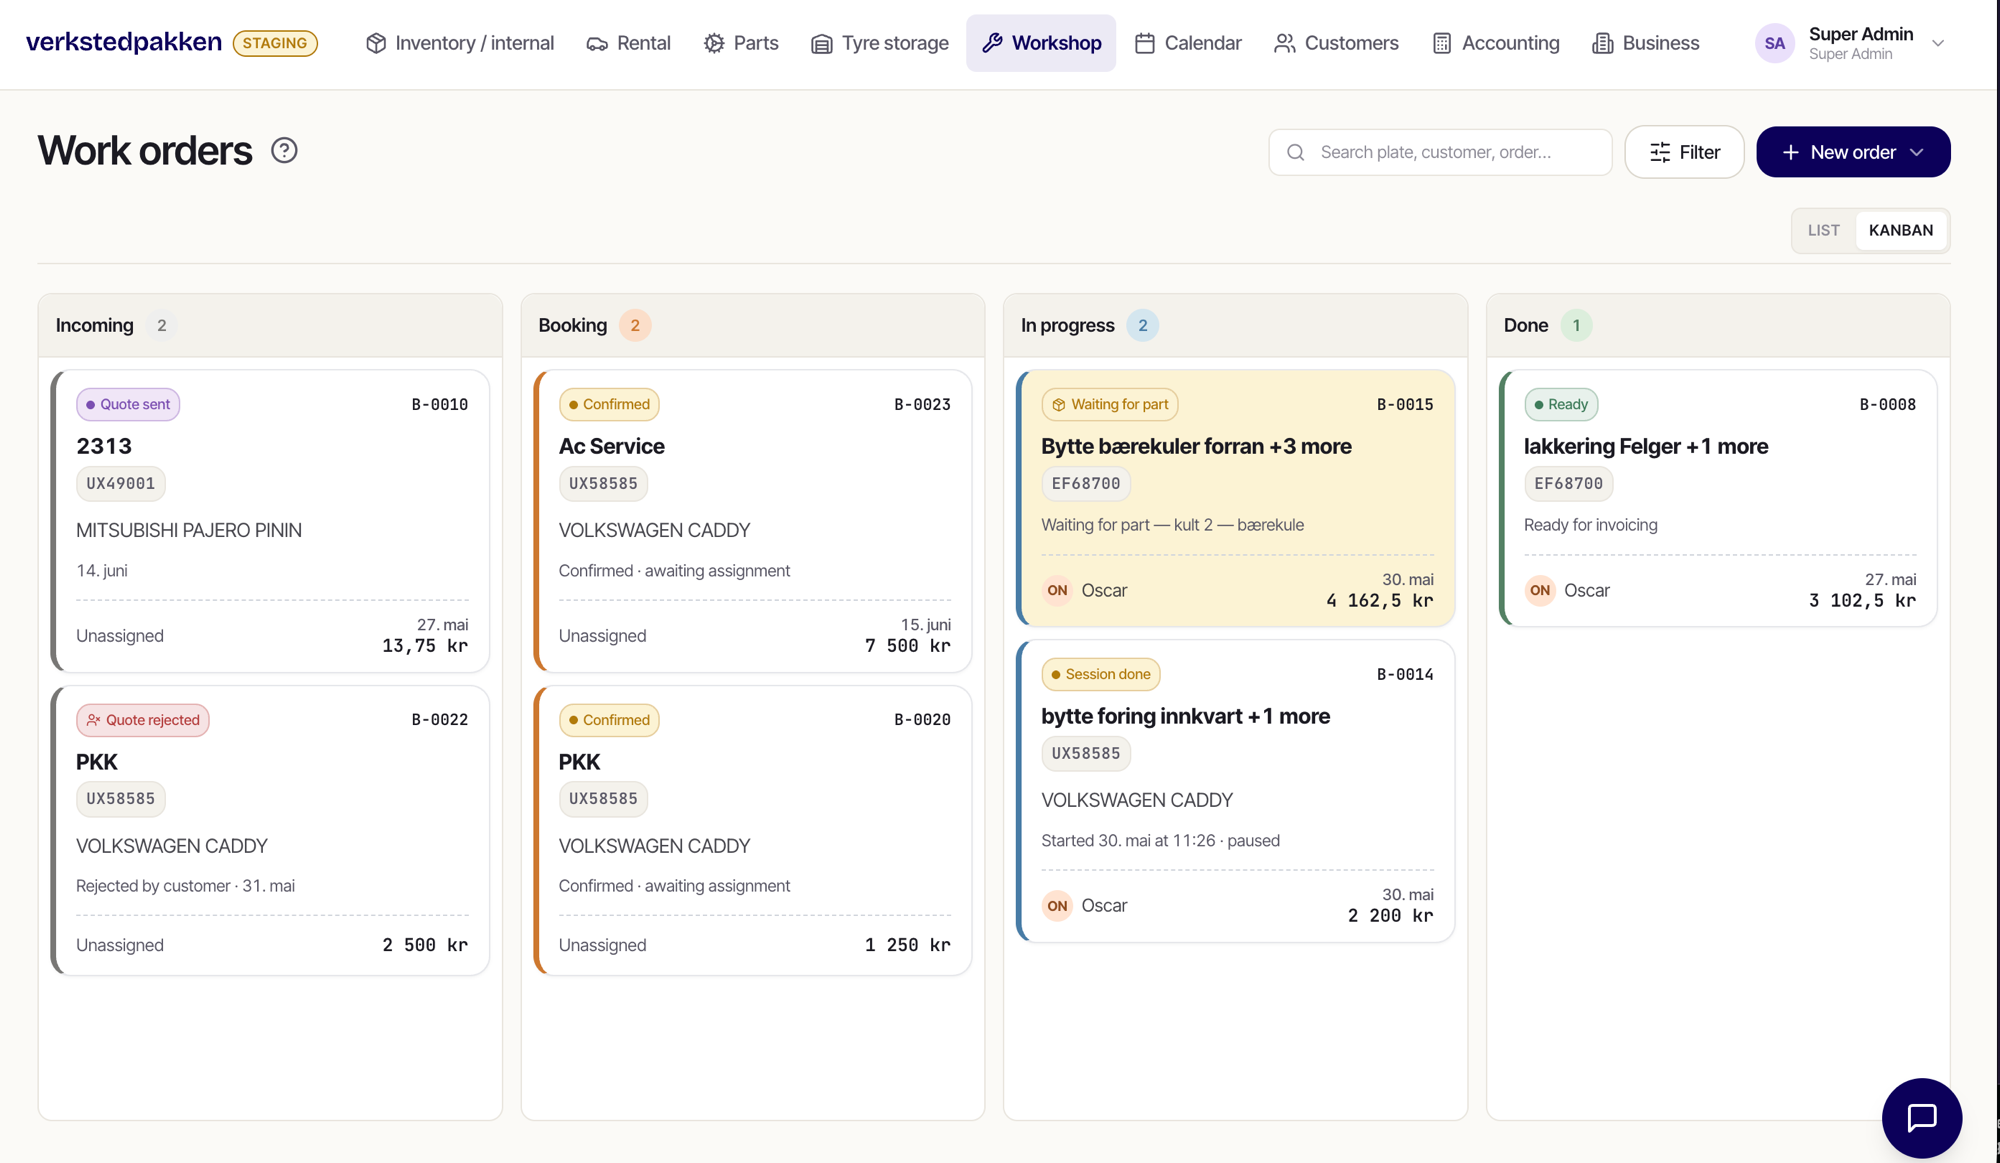
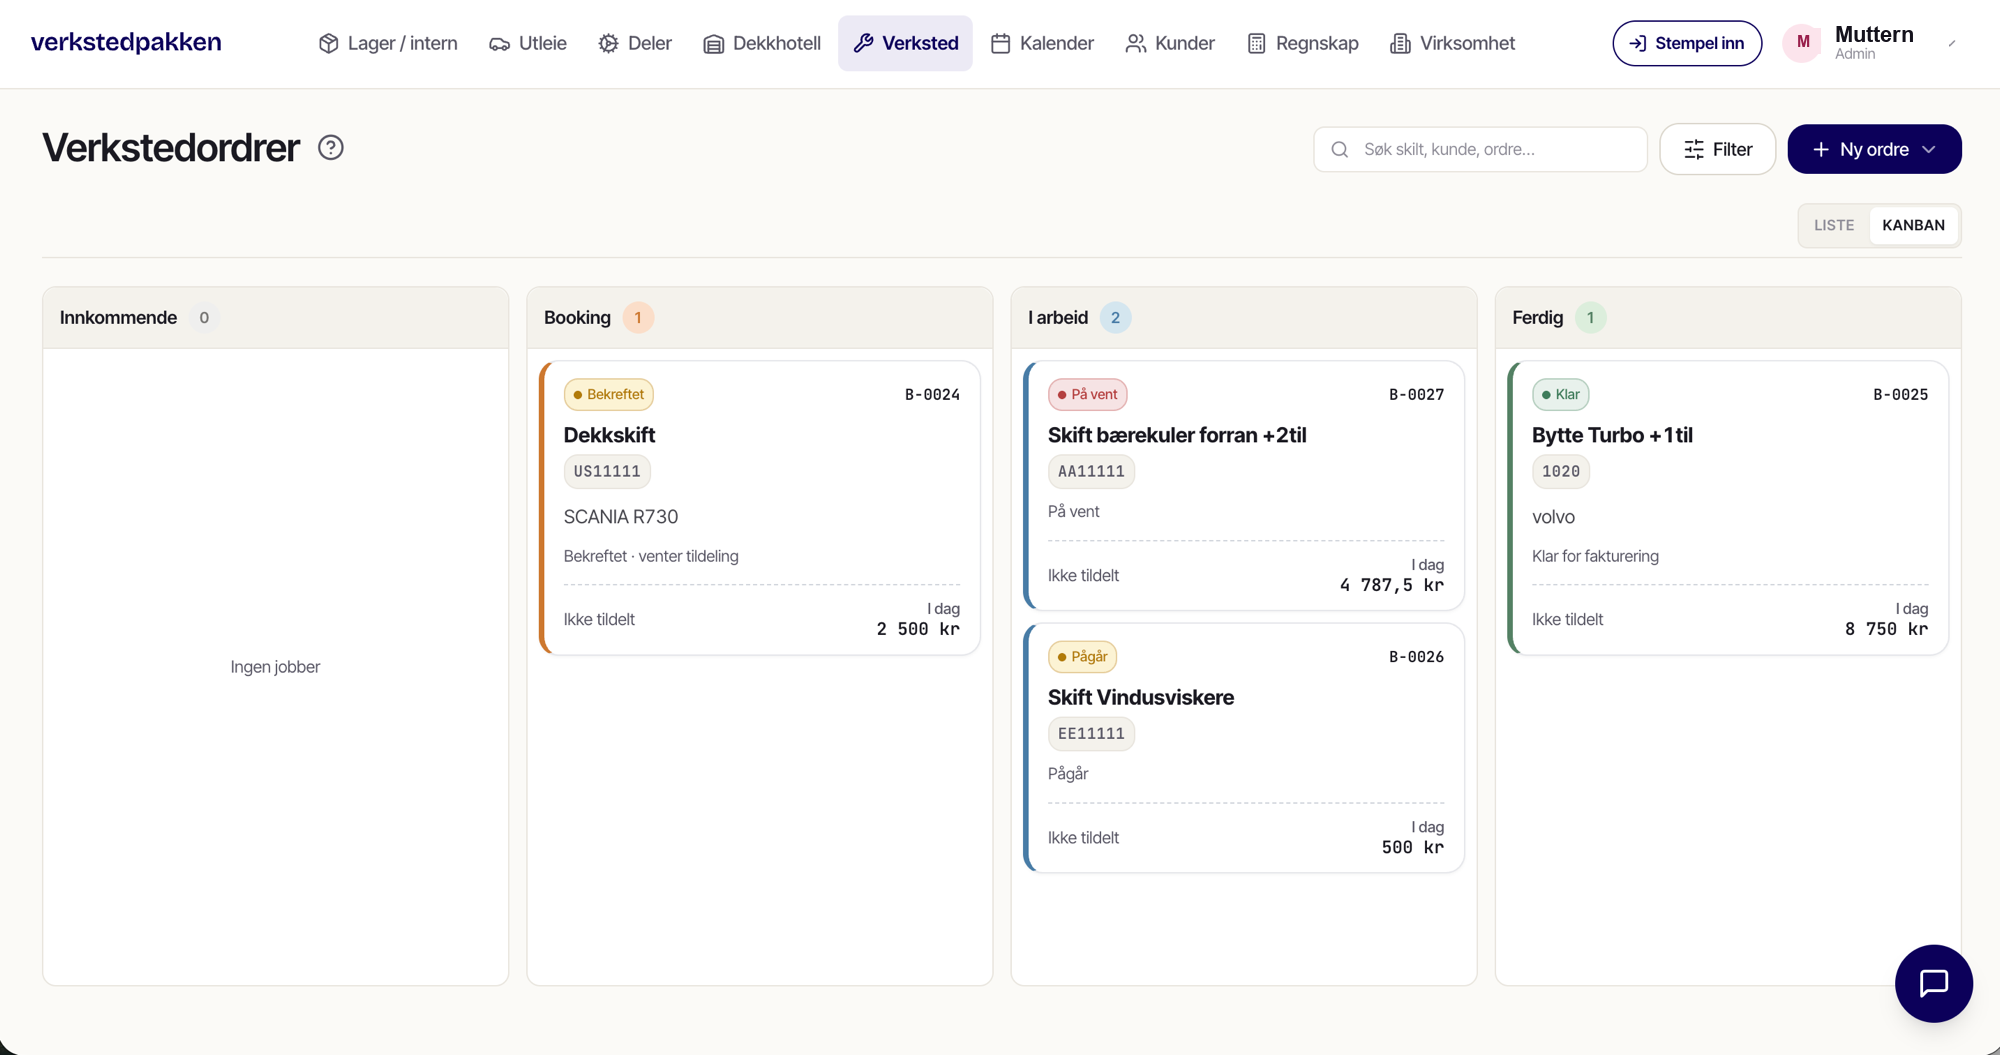
Forside: tekst, rene skjermbilder, hero-collage og roligere pris
- Fjernet pilotverksted-seksjonen (Testimonials)
- Hero-overskrift: «Fra booking til ferdig faktura», ingress strammet,
  «14 brukere har allerede registrert seg» som sosialt bevis,
  booking-linje «koblet rett i systemet»
- Nye rene skjermbilder (norsk, ingen STAGING, «Muttern»-konto) i begge
  collager; produkt = product-split-v6
- Hero-collage: nettleser-ramme på RGL (rglautomotive.no), balanserte
  vinduer, «Booking → ordre»-badge flyttet til venstre, hover-løft
- Pris: fjernet glød-gradient og rosa pille → flat navy + hvitt, terracotta
  CTA med skygge som eneste fargeklatt
- Prisforslag «Godta»-knapp: mørkegrønn

diff --git a/src/app/globals.css b/src/app/globals.css
@@ -172,6 +172,9 @@ main{
   margin-left:-14px;
 }
 .hero-eyebrow .dot{width:7px;height:7px;background:var(--success);border-radius:50%;box-shadow:0 0 0 4px rgba(0,199,88,.18)}
+.hero-social{display:inline-flex;align-items:center;gap:9px;margin-top:18px;font-size:14.5px;color:var(--ink-soft)}
+.hero-social b{color:var(--ink);font-weight:600}
+.hero-social-dot{width:8px;height:8px;border-radius:50%;background:var(--success);box-shadow:0 0 0 4px rgba(0,199,88,.18);flex-shrink:0}
 
 .hero-h1{
   font-family: var(--font-display), sans-serif;font-weight:600;
@@ -191,7 +194,10 @@ main{
 .hero-meta b{display:block;font-family: var(--font-inter), sans-serif;font-weight:600;color:var(--ink);font-size:22px;letter-spacing:-0.02em;margin-bottom:2px}
 
 .hero-visual{position:relative;aspect-ratio:1/1.05;max-width:720px;margin-left:auto;width:100%}
-.hv-collage{position:absolute;inset:0}
+.hv-collage{position:absolute;inset:0;transition:transform .5s cubic-bezier(.16,1,.3,1);will-change:transform}
+.hv-collage img{transition:filter .4s ease}
+.hero-visual:hover .hv-collage{transform:translateY(-9px) scale(1.015)}
+.hero-visual:hover .hv-collage img{filter:drop-shadow(0 30px 50px rgba(36,29,68,.16))}
 .hv-photo{
   position:absolute;inset:0 0 53% 0;
   border-radius:var(--r-xl);overflow:hidden;
@@ -206,7 +212,7 @@ main{
   border:1px solid var(--line);
 }
 .hv-badge{
-  position:absolute;left:30%;bottom:46%;z-index:3;
+  position:absolute;left:-6%;bottom:44%;z-index:3;
   background:#fff;border:1px solid var(--line);
   padding:10px 14px;border-radius:12px;box-shadow:var(--shadow-soft);
   display:flex;align-items:center;gap:10px;
@@ -337,7 +343,7 @@ main{
 .product .eyebrow::before{background:var(--accent)}
 .product-h{font-family: var(--font-display), sans-serif;font-weight:600;font-size:clamp(36px,5vw,60px);line-height:1.02;letter-spacing:-0.025em;color:var(--ink);margin:16px 0 0;max-width:820px}
 .product-sub{font-size:18px;color:var(--ink-soft);max-width:620px;margin-top:16px;line-height:1.55}
-.product-shot{position:relative;width:100%;aspect-ratio:2150/1313;margin-top:48px}
+.product-shot{position:relative;width:100%;aspect-ratio:2150/1205;margin-top:48px}
 
 /* Vekslende funksjonsrader */
 .feats{margin-top:96px;display:flex;flex-direction:column;gap:80px}
@@ -368,7 +374,7 @@ main{
 .qv-actions{display:grid;grid-template-columns:1fr 1fr;gap:10px}
 .qv-btn{text-align:center;padding:11px;border-radius:10px;font-size:14px;font-weight:600}
 .qv-btn.ghost{background:var(--cream);color:var(--ink-soft)}
-.qv-btn.ok{background:var(--success);color:#fff}
+.qv-btn.ok{background:#15803d;color:#fff}
 
 /* Forenklet visual: status-stepper */
 .sv{width:100%;max-width:380px;background:#fff;border:1px solid var(--line);border-radius:var(--r-lg);box-shadow:var(--shadow-lift);padding:24px 26px}
@@ -630,11 +636,7 @@ main{
   position:relative;
 }
 @media (max-width:880px){ .pricing-card{grid-template-columns:1fr} }
-.pricing-card::before{
-  content:"";position:absolute;top:-40%;left:60%;width:80%;height:180%;
-  background:radial-gradient(ellipse at center,rgba(213,106,82,.25) 0%,transparent 60%);
-  pointer-events:none;
-}
+.pricing-card::before{ display:none }
 .pricing-left{padding:56px;position:relative;z-index:1}
 .pricing-left .eyebrow{color:rgba(255,255,255,.6)}
 .pricing-left .eyebrow::before{background:rgba(255,255,255,.4)}
@@ -647,14 +649,15 @@ main{
 .pp-item b{display:block;font-family: var(--font-inter), sans-serif;font-size:16px;color:#fff;font-weight:600;margin-bottom:3px}
 .pp-item span{display:block;font-family: var(--font-inter), 'Inter', system-ui, sans-serif;font-size:14px;font-weight:400;color:rgba(255,255,255,.78);line-height:1.5;letter-spacing:0}
 .pricing-cta{display:inline-flex;align-items:center;justify-content:center;gap:10px;padding:18px 28px;background:var(--accent);color:#fff;border-radius:999px;font-size:16px;font-weight:600;letter-spacing:-.005em;text-decoration:none;transition:transform .15s,filter .15s;margin-top:6px}
-.pricing-cta:hover{transform:translateY(-1px);filter:brightness(1.05)}
+.pricing-cta{box-shadow:0 10px 28px rgba(213,106,82,.35)}
+.pricing-cta:hover{transform:translateY(-1px);filter:brightness(1.05);box-shadow:0 14px 34px rgba(213,106,82,.45)}
 .pricing-note{font-size:13px;color:rgba(255,255,255,.55);text-align:center}
 .pricing-figure{display:flex;flex-direction:column;gap:11px}
 .pricing-kicker{font-size:12px;font-weight:600;letter-spacing:.07em;text-transform:uppercase;color:rgba(255,255,255,.5)}
 .pricing-amount{display:flex;align-items:baseline;gap:10px;flex-wrap:wrap}
 .pricing-amount b{font-family:var(--font-display),sans-serif;font-size:clamp(42px,5.4vw,58px);font-weight:700;letter-spacing:-.03em;line-height:1;color:#fff}
 .pricing-amount span{font-size:15px;color:rgba(255,255,255,.7)}
-.pricing-pill{align-self:flex-start;display:inline-flex;align-items:center;gap:7px;padding:6px 14px;border-radius:999px;background:rgba(213,106,82,.16);border:1px solid rgba(213,106,82,.45);color:#ffc9cb;font-size:13px;font-weight:600;letter-spacing:-.005em}
+.pricing-pill{align-self:flex-start;display:inline-flex;align-items:center;gap:7px;padding:6px 14px;border-radius:999px;background:rgba(255,255,255,.08);border:1px solid rgba(255,255,255,.2);color:rgba(255,255,255,.9);font-size:13px;font-weight:600;letter-spacing:-.005em}
 .pricing-subnote{font-size:13px;color:rgba(255,255,255,.62)}
 .pricing-divider{height:1px;background:rgba(255,255,255,.1)}
 

diff --git a/src/components/Hero.tsx b/src/components/Hero.tsx
@@ -10,13 +10,17 @@ export default function Hero() {
           <div className="hero-left">
             <span className="hero-eyebrow">Laget i 2026, ikke 2006.</span>
             <h1 className="hero-h1">
-              Bygget for verksteder som vil <em>vokse.</em>
+              Fra booking til ferdig <em>faktura.</em>
             </h1>
             <p className="hero-sub">
-              Booking, ordre, deler, timer og kundeportal — samlet i ett
-              system, fra første henvendelse til ferdig faktura. Ingen
-              oppstartskostnad, ingen skjulte moduler. Bygget etter 6 år på
-              verkstedgulvet.
+              Ordre, kundechat, deler, timer, kundeportal og online booking —
+              uten oppstartskostnad og uten skjulte moduler. Bygget etter 6 år
+              på verkstedgulvet.
+            </p>
+            {/* Oppdater tallet når flere registrerer seg */}
+            <p className="hero-social">
+              <span className="hero-social-dot" />
+              <b>14 brukere</b> har allerede registrert seg
             </p>
             <div className="hero-ctas">
               <a className="btn btn-primary btn-lg btn-arrow" href={SIGNUP_URL}>
@@ -45,7 +49,7 @@ export default function Hero() {
             <div className="hero-visual">
               <div className="hv-collage">
                 <Image
-                  src="/hero-collage.png"
+                  src="/hero-collage-v3.png"
                   alt="RGL Automotive nettside og Verkstedpakken ordresystem"
                   fill
                   priority

diff --git a/src/app/page.tsx b/src/app/page.tsx
@@ -6,7 +6,6 @@ import Roles from "@/components/Roles";
 import Process from "@/components/Process";
 import Integrations from "@/components/Integrations";
 import Comparison from "@/components/Comparison";
-import Testimonials from "@/components/Testimonials";
 import Pricing from "@/components/Pricing";
 import InterestList from "@/components/InterestList";
 import FAQ from "@/components/FAQ";
@@ -39,9 +38,6 @@ export default function Home() {
         </Reveal>
         <Reveal>
           <Comparison />
-        </Reveal>
-        <Reveal stagger=".tm-card" step={80}>
-          <Testimonials />
         </Reveal>
         <Reveal>
           <Pricing />

diff --git a/src/components/Product.tsx b/src/components/Product.tsx
@@ -14,7 +14,7 @@ export default function Product() {
 
         <div className="product-shot">
           <Image
-            src="/product-split-clean.png"
+            src="/product-split-v6.png"
             alt="Verkstedoversikten i Verkstedpakken – Kanban- og listevisning"
             fill
             sizes="(max-width: 960px) 100vw, 1100px"
